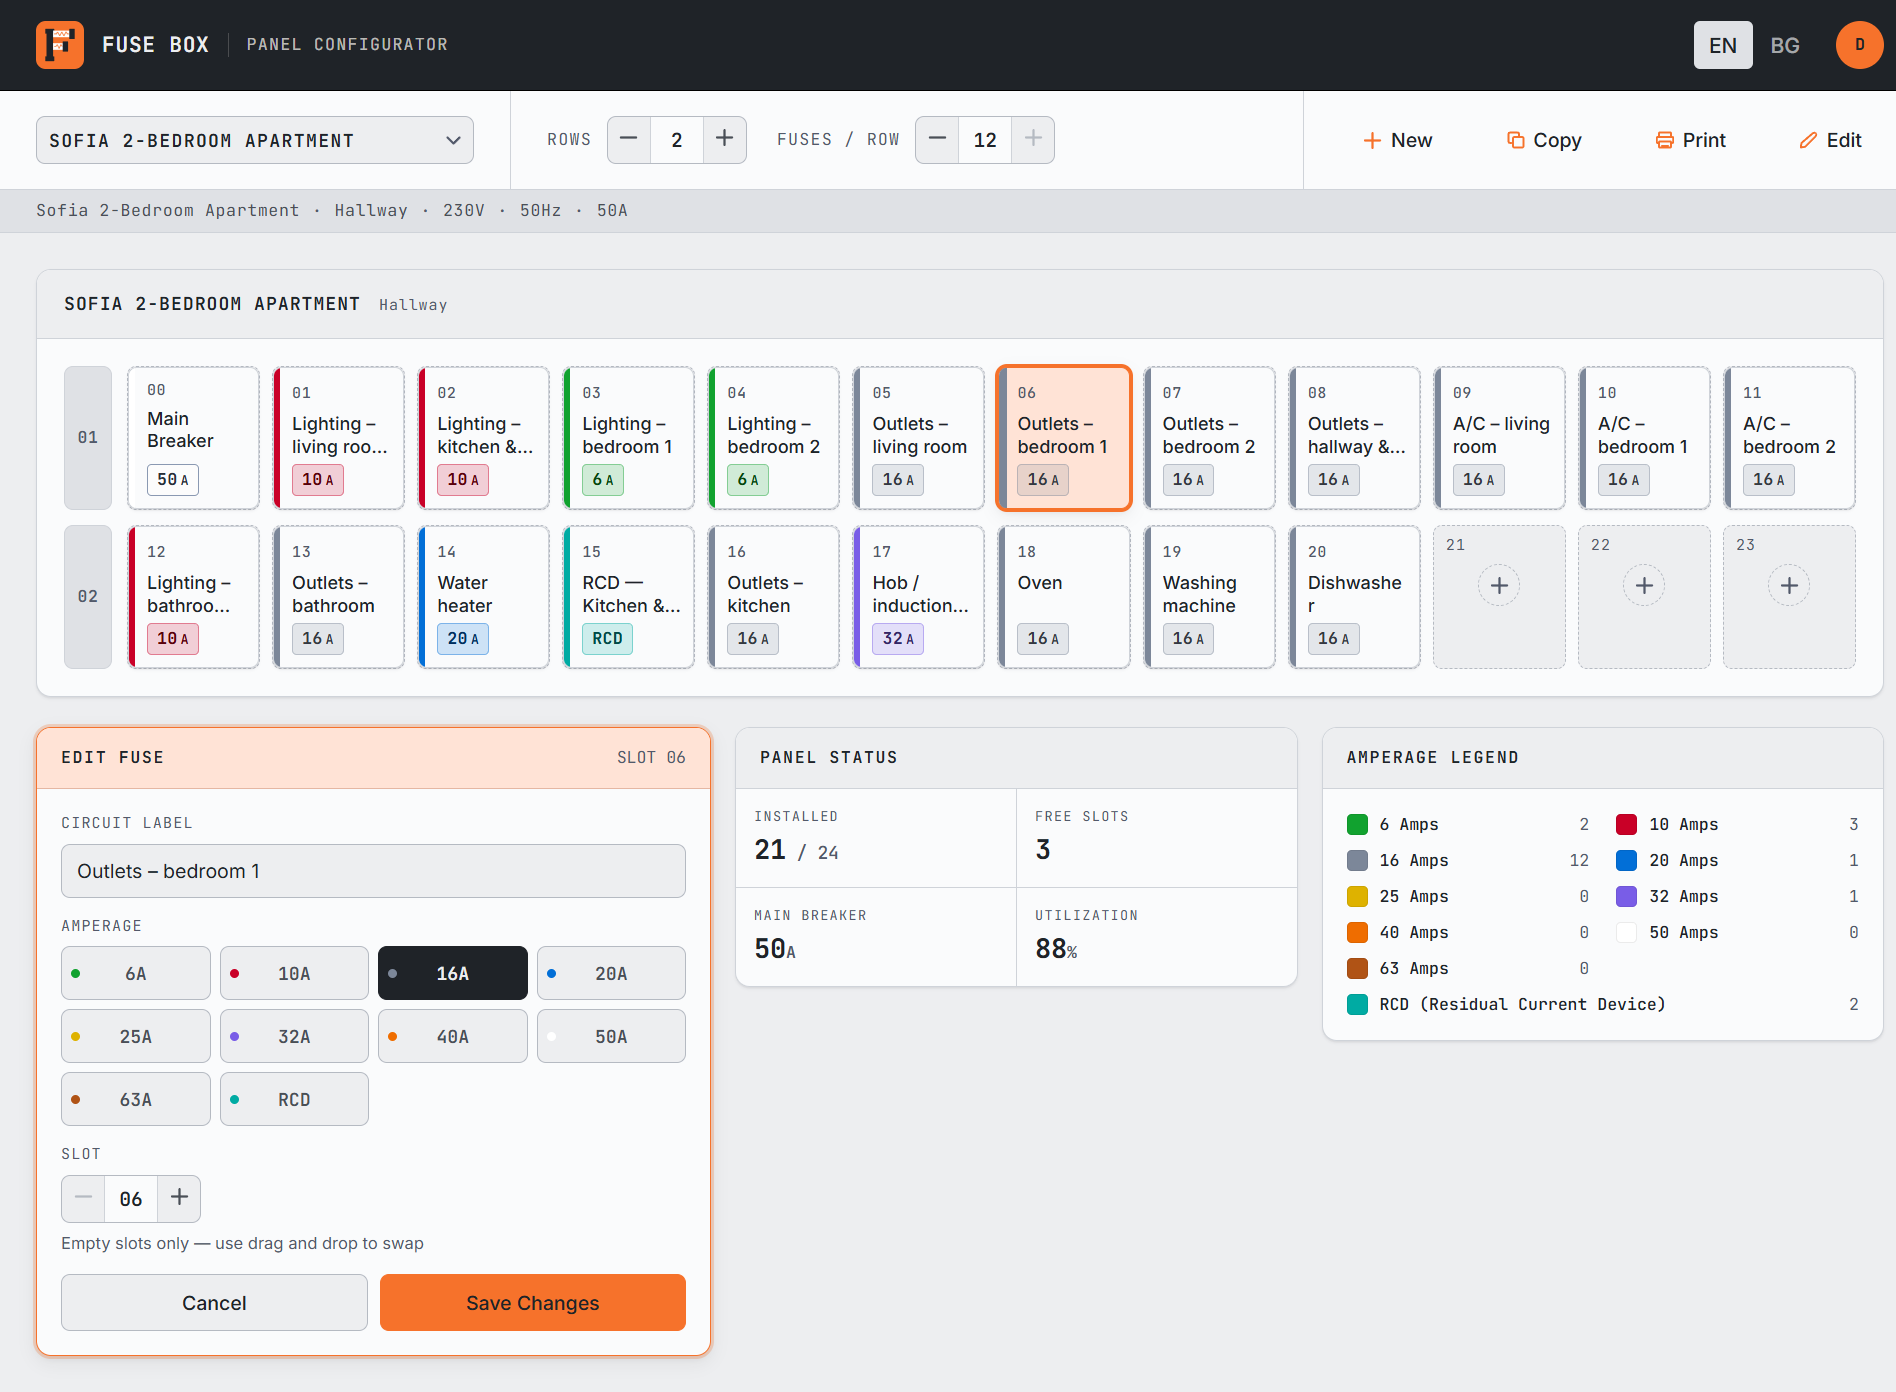
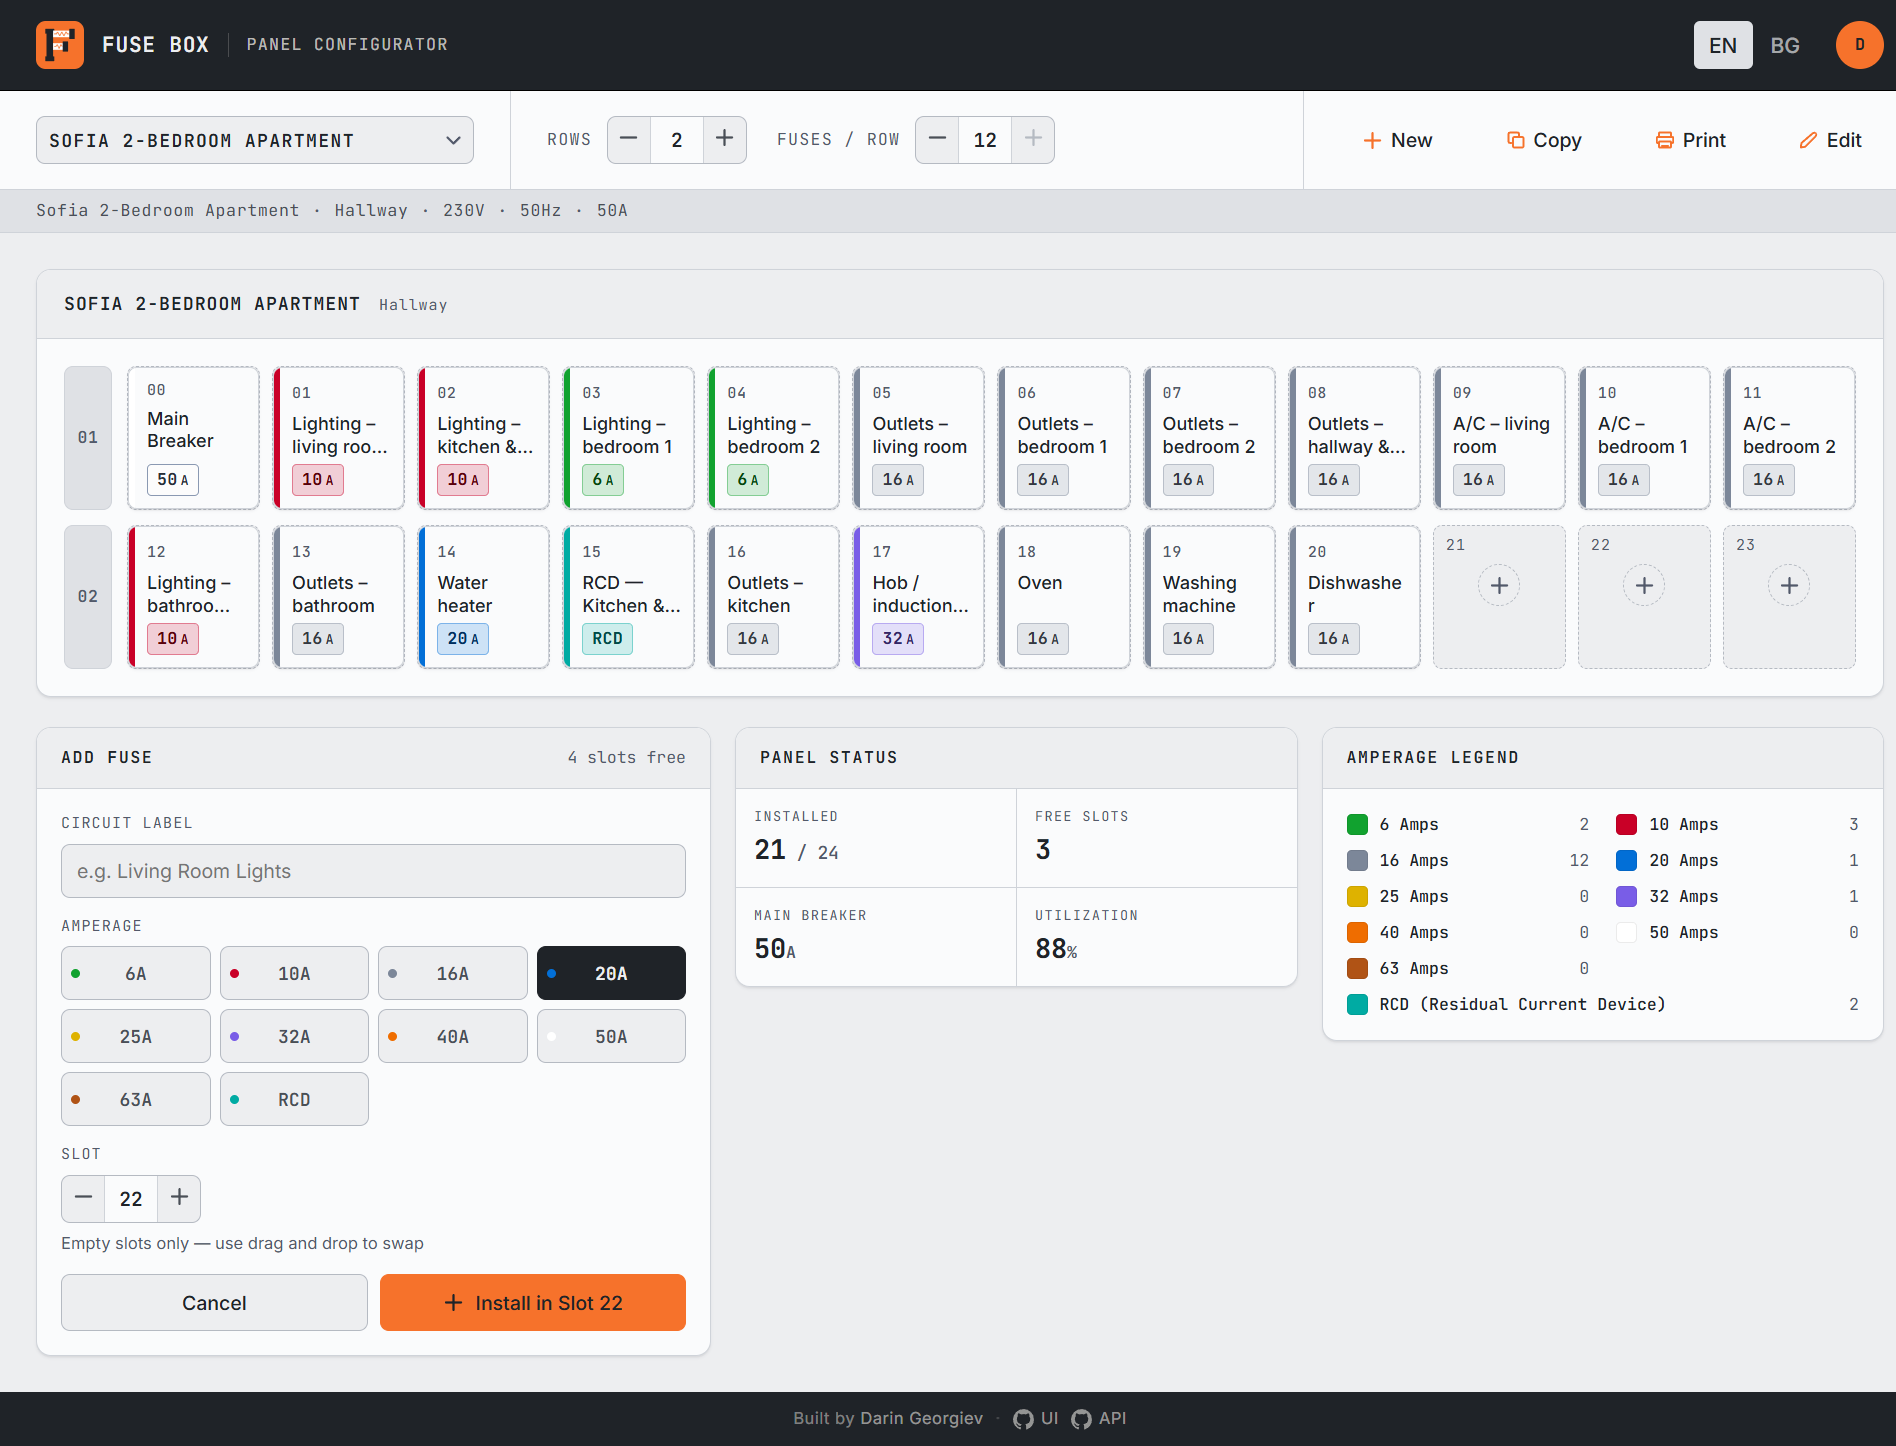
Add footer

diff --git a/src/components/Footer.tsx b/src/components/Footer.tsx
@@ -1,0 +1,47 @@
+import { useTranslation } from 'react-i18next'
+import { GitHub } from './Icons'
+
+export default function Footer() {
+  const { t } = useTranslation()
+
+  return (
+    <footer className="app-footer">
+      <span className="app-footer-built">
+        {t('footer.builtBy')}{' '}
+        <a
+          className="app-footer-link"
+          href="https://daringeorgiev.github.io/"
+          target="_blank"
+          rel="noopener noreferrer"
+          aria-label="Darin Georgiev – personal site"
+        >
+          Darin Georgiev
+        </a>
+      </span>
+
+      <span className="app-footer-sep" aria-hidden="true">·</span>
+
+      <a
+        className="app-footer-link app-footer-repo"
+        href="https://github.com/daringeorgiev/fuse-box-ui"
+        target="_blank"
+        rel="noopener noreferrer"
+        aria-label="FuseBox UI source code on GitHub"
+      >
+        <GitHub aria-hidden="true" />
+        UI
+      </a>
+
+      <a
+        className="app-footer-link app-footer-repo"
+        href="https://github.com/daringeorgiev/fuse-box-api"
+        target="_blank"
+        rel="noopener noreferrer"
+        aria-label="FuseBox API source code on GitHub"
+      >
+        <GitHub aria-hidden="true" />
+        API
+      </a>
+    </footer>
+  )
+}

diff --git a/src/pages/PanelEditPage.tsx b/src/pages/PanelEditPage.tsx
@@ -7,6 +7,7 @@ import Topbar from '../components/Topbar'
 import PanelForm from '../components/PanelForm'
 import Notice from '../components/Notice'
 import { useAuth } from '../context/AuthContext'
+import Footer from '../components/Footer'
 
 export default function PanelEditPage() {
   const { id } = useParams<{ id: string }>()
@@ -63,6 +64,7 @@ export default function PanelEditPage() {
         <div style={{ display: 'flex', justifyContent: 'center', alignItems: 'center', height: '60vh', color: 'var(--ink-3)' }}>
           {t('panelEditPage.loading')}
         </div>
+        <Footer />
       </div>
     )
   }
@@ -75,6 +77,7 @@ export default function PanelEditPage() {
           <span>{t('panelEditPage.panelNotFound')}</span>
           <button className="btn" onClick={() => navigate(backTo)}>{t('panelEditPage.goBack')}</button>
         </div>
+        <Footer />
       </div>
     )
   }
@@ -151,6 +154,7 @@ export default function PanelEditPage() {
         )}
       </main>
       {snack && <div className={`snack${snack.isError ? ' snack--error' : ''}`}>{snack.msg}</div>}
+      <Footer />
     </div>
   )
 }

diff --git a/src/components/Icons.tsx b/src/components/Icons.tsx
@@ -37,3 +37,17 @@ export const Printer = () => (
     <path d="M4 10h4" stroke="currentColor" strokeWidth="1.3" strokeLinecap="round"/>
   </svg>
 )
+
+export const GitHub = (props: React.SVGProps<SVGSVGElement>) => (
+  <svg width="14" height="14" viewBox="0 0 16 16" fill="currentColor" {...props}>
+    <path d="M8 0C3.58 0 0 3.58 0 8c0 3.54 2.29 6.53 5.47 7.59.4.07.55-.17.55-.38
+      0-.19-.01-.82-.01-1.49-2.01.37-2.53-.49-2.69-.94-.09-.23-.48-.94-.82-1.13
+      -.28-.15-.68-.52-.01-.53.63-.01 1.08.58 1.23.82.72 1.21 1.87.87
+      2.33.66.07-.52.28-.87.51-1.07-1.78-.2-3.64-.89-3.64-3.95
+      0-.87.31-1.59.82-2.15-.08-.2-.36-1.02.08-2.12 0 0 .67-.21 2.2.82
+      .64-.18 1.32-.27 2-.27.68 0 1.36.09 2 .27 1.53-1.04 2.2-.82 2.2-.82
+      .44 1.1.16 1.92.08 2.12.51.56.82 1.27.82 2.15 0 3.07-1.87 3.75-3.65 3.95
+      .29.25.54.73.54 1.48 0 1.07-.01 1.93-.01 2.2 0 .21.15.46.55.38
+      A8.013 8.013 0 0 0 16 8c0-4.42-3.58-8-8-8z"/>
+  </svg>
+)

diff --git a/src/index.css b/src/index.css
@@ -1527,6 +1527,38 @@ body {
   .main { /* still vertical */ }
 }
 
+/* ============ FOOTER ============ */
+.app-footer {
+  display: flex;
+  align-items: center;
+  justify-content: center;
+  gap: 0.5rem;
+  padding: 0.625rem 1.5rem;
+  background: var(--ink);
+  color: rgba(245,242,236,0.45);
+  font-size: 0.6875rem;
+  letter-spacing: 0.03em;
+}
+.app-footer-sep {
+  opacity: 0.4;
+}
+.app-footer-link {
+  color: rgba(245,242,236,0.55);
+  text-decoration: none;
+  transition: color 0.15s;
+}
+.app-footer-link:hover,
+.app-footer-link:focus-visible {
+  color: rgba(245,242,236,0.9);
+  text-decoration: underline;
+  outline-offset: 2px;
+}
+.app-footer-repo {
+  display: inline-flex;
+  align-items: center;
+  gap: 0.3rem;
+}
+
 @media (max-width: 768px) {
   .fuse-row {
     grid-template-columns: 2rem 1fr;

diff --git a/src/pages/PanelPage.tsx b/src/pages/PanelPage.tsx
@@ -18,6 +18,7 @@ import Topbar from '../components/Topbar'
 import { Plus, Copy as CopyIcon, Pencil, Printer } from '../components/Icons'
 import PrintView from '../components/PrintView'
 import { useAuth } from '../context/AuthContext'
+import Footer from '../components/Footer'
 
 export default function PanelPage() {
   const navigate = useNavigate()
@@ -347,6 +348,7 @@ export default function PanelPage() {
           perRow={perRow}
         />
       )}
+      <Footer />
     </div>
   )
 }

diff --git a/src/pages/PanelCreatePage.tsx b/src/pages/PanelCreatePage.tsx
@@ -4,6 +4,7 @@ import { useCreatePanel } from '../hooks/usePanels'
 import type { IPanelFormValues } from '../interfaces'
 import Topbar from '../components/Topbar'
 import PanelForm from '../components/PanelForm'
+import Footer from '../components/Footer'
 
 export default function PanelCreatePage() {
   const navigate = useNavigate()
@@ -46,6 +47,7 @@ export default function PanelCreatePage() {
           />
         </div>
       </main>
+      <Footer />
     </div>
   )
 }

diff --git a/src/pages/PanelsPage.tsx b/src/pages/PanelsPage.tsx
@@ -4,6 +4,7 @@ import { useTranslation } from 'react-i18next'
 import { usePanels } from '../hooks/usePanels'
 import { useAuth } from '../context/AuthContext'
 import Topbar from '../components/Topbar'
+import Footer from '../components/Footer'
 
 type SortKey = 'name-asc' | 'name-desc' | 'location' | 'newest' | 'oldest'
 
@@ -143,6 +144,7 @@ export default function PanelsPage() {
           )}
         </div>
       </main>
+      <Footer />
     </div>
   )
 }

diff --git a/src/pages/LoginPage.tsx b/src/pages/LoginPage.tsx
@@ -4,6 +4,7 @@ import { useTranslation } from 'react-i18next';
 import { useAuth } from '../context/AuthContext';
 import Topbar from '../components/Topbar';
 import Logo from '../components/Logo';
+import Footer from '../components/Footer';
 
 type IMode = 'signin' | 'signup';
 
@@ -121,6 +122,7 @@ export default function LoginPage() {
           </button>
         </div>
       </div>
+      <Footer />
     </div>
   );
 }

diff --git a/src/print.css b/src/print.css
@@ -27,7 +27,8 @@
   .panel-infostrip,
   .main,
   .sidebar,
-  .snack {
+  .snack,
+  .app-footer {
     display: none !important;
   }
 
